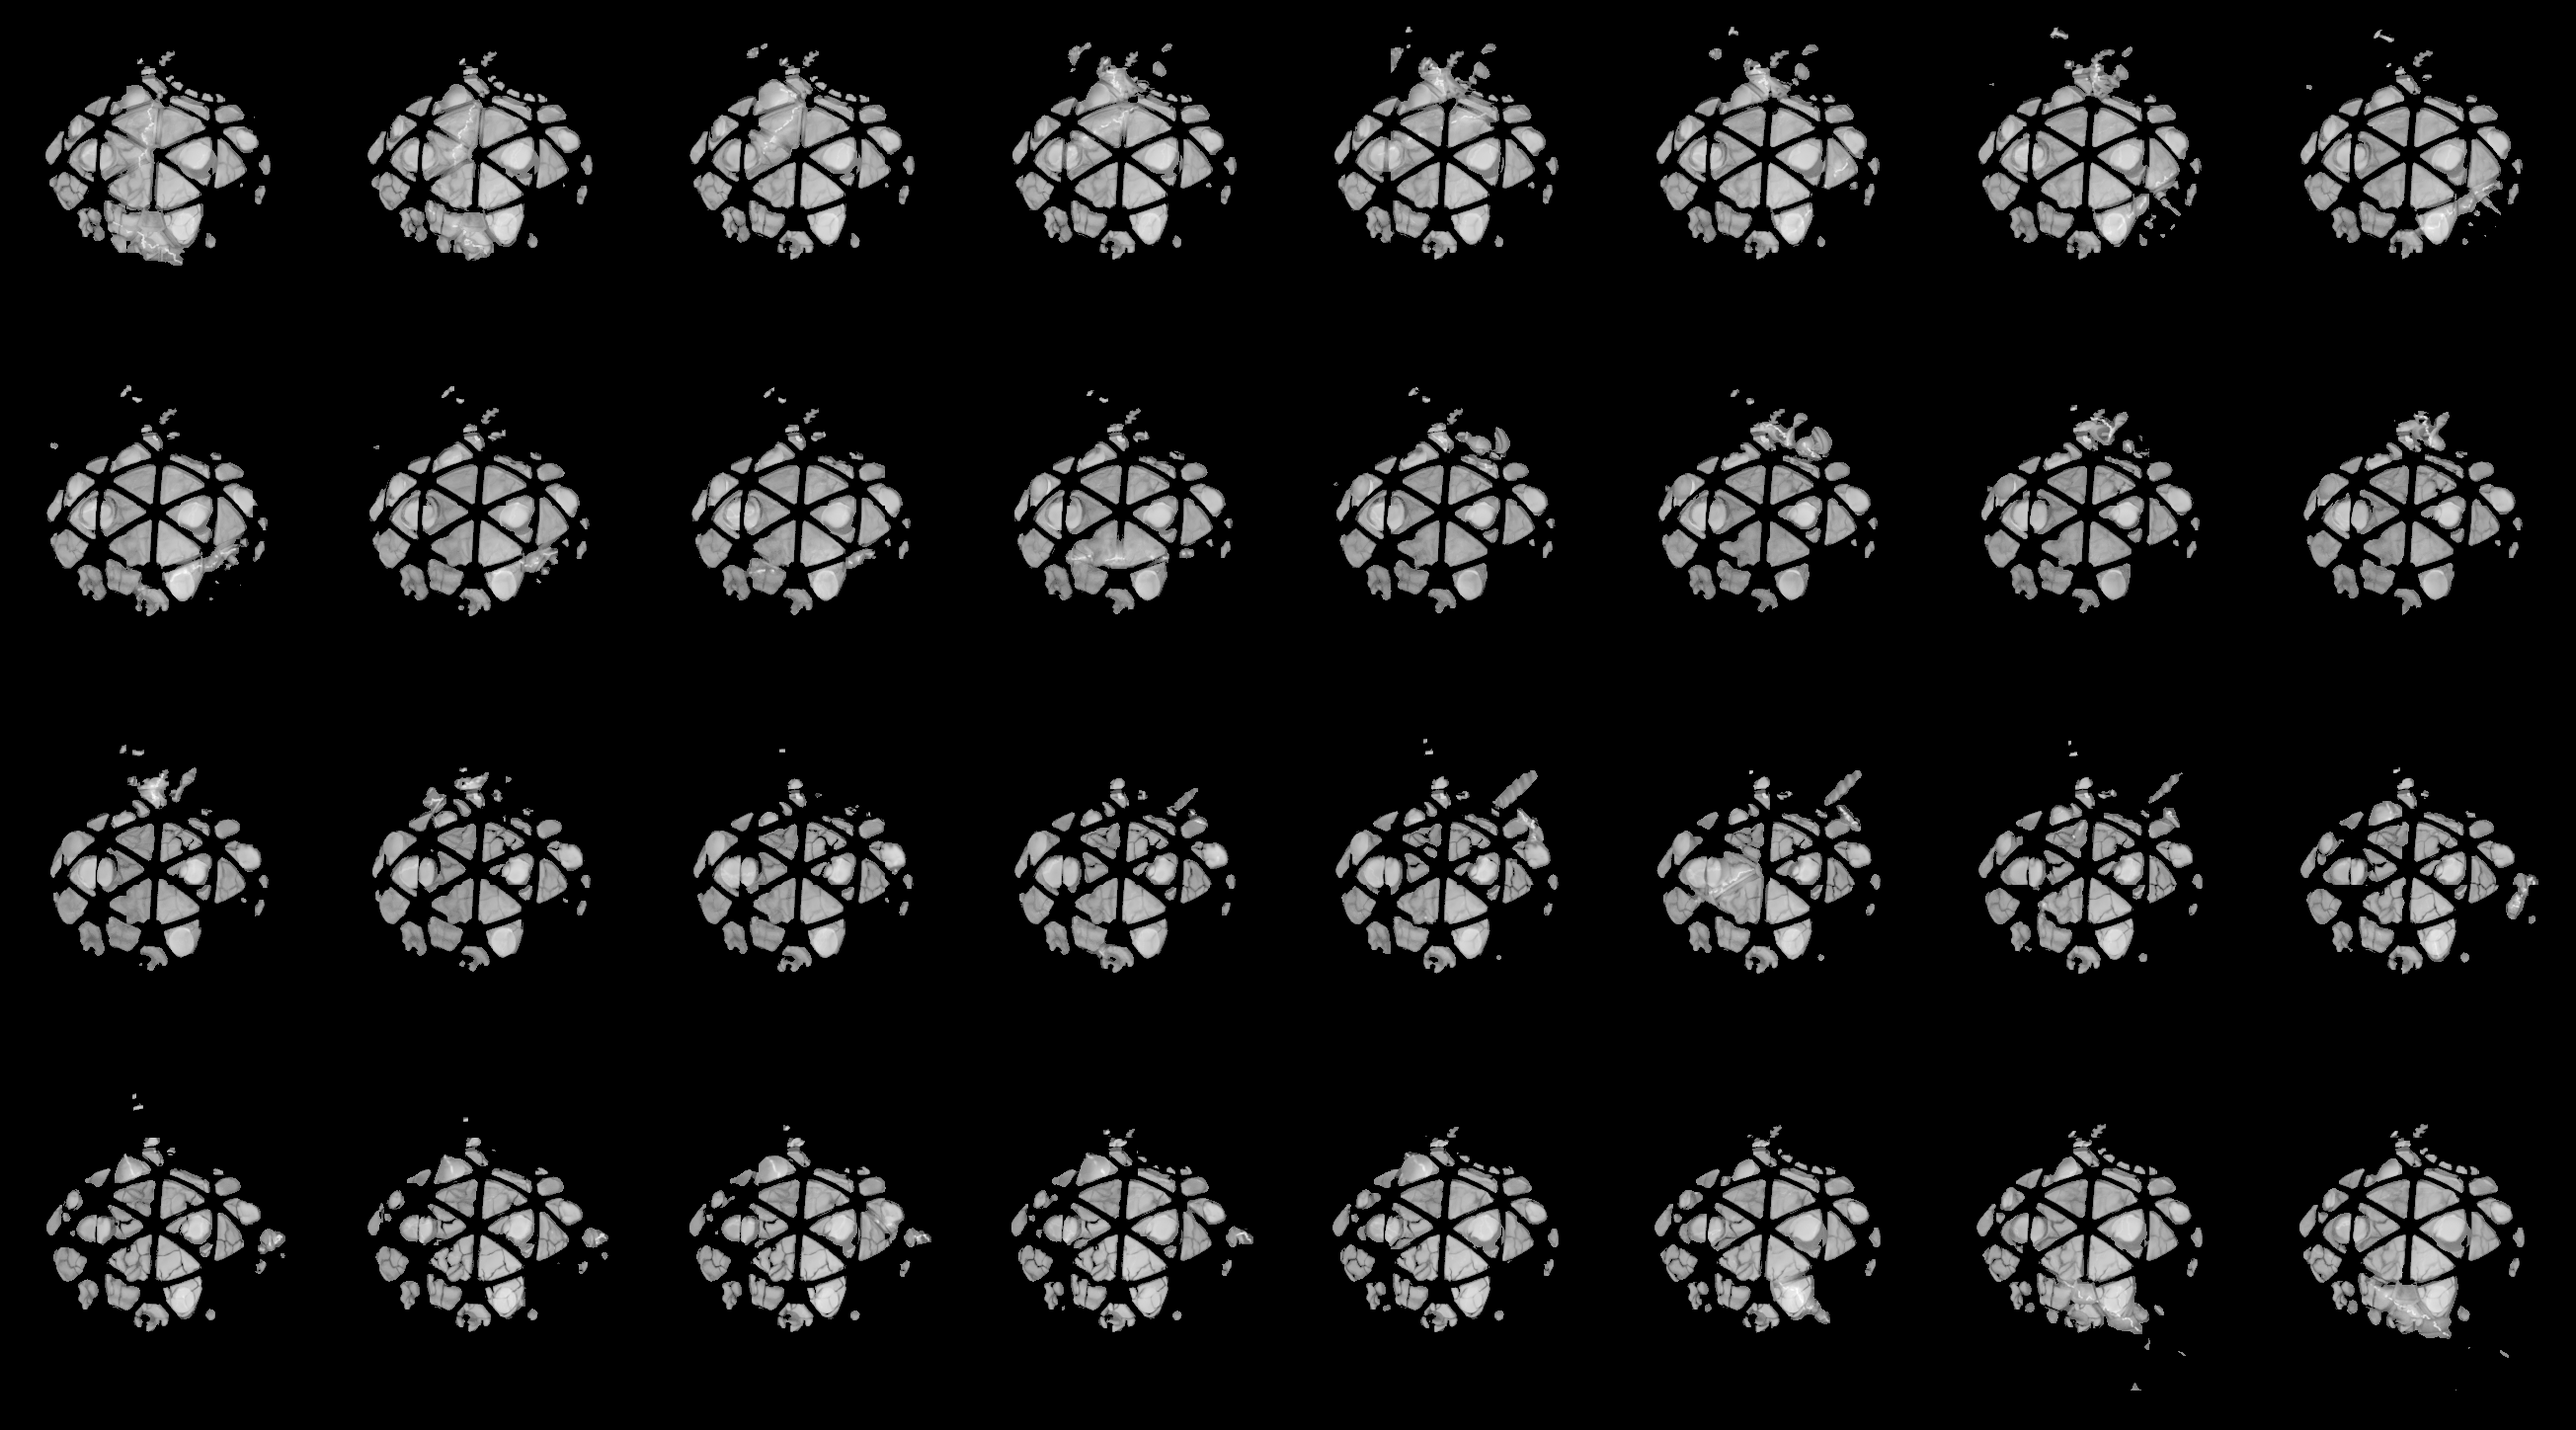
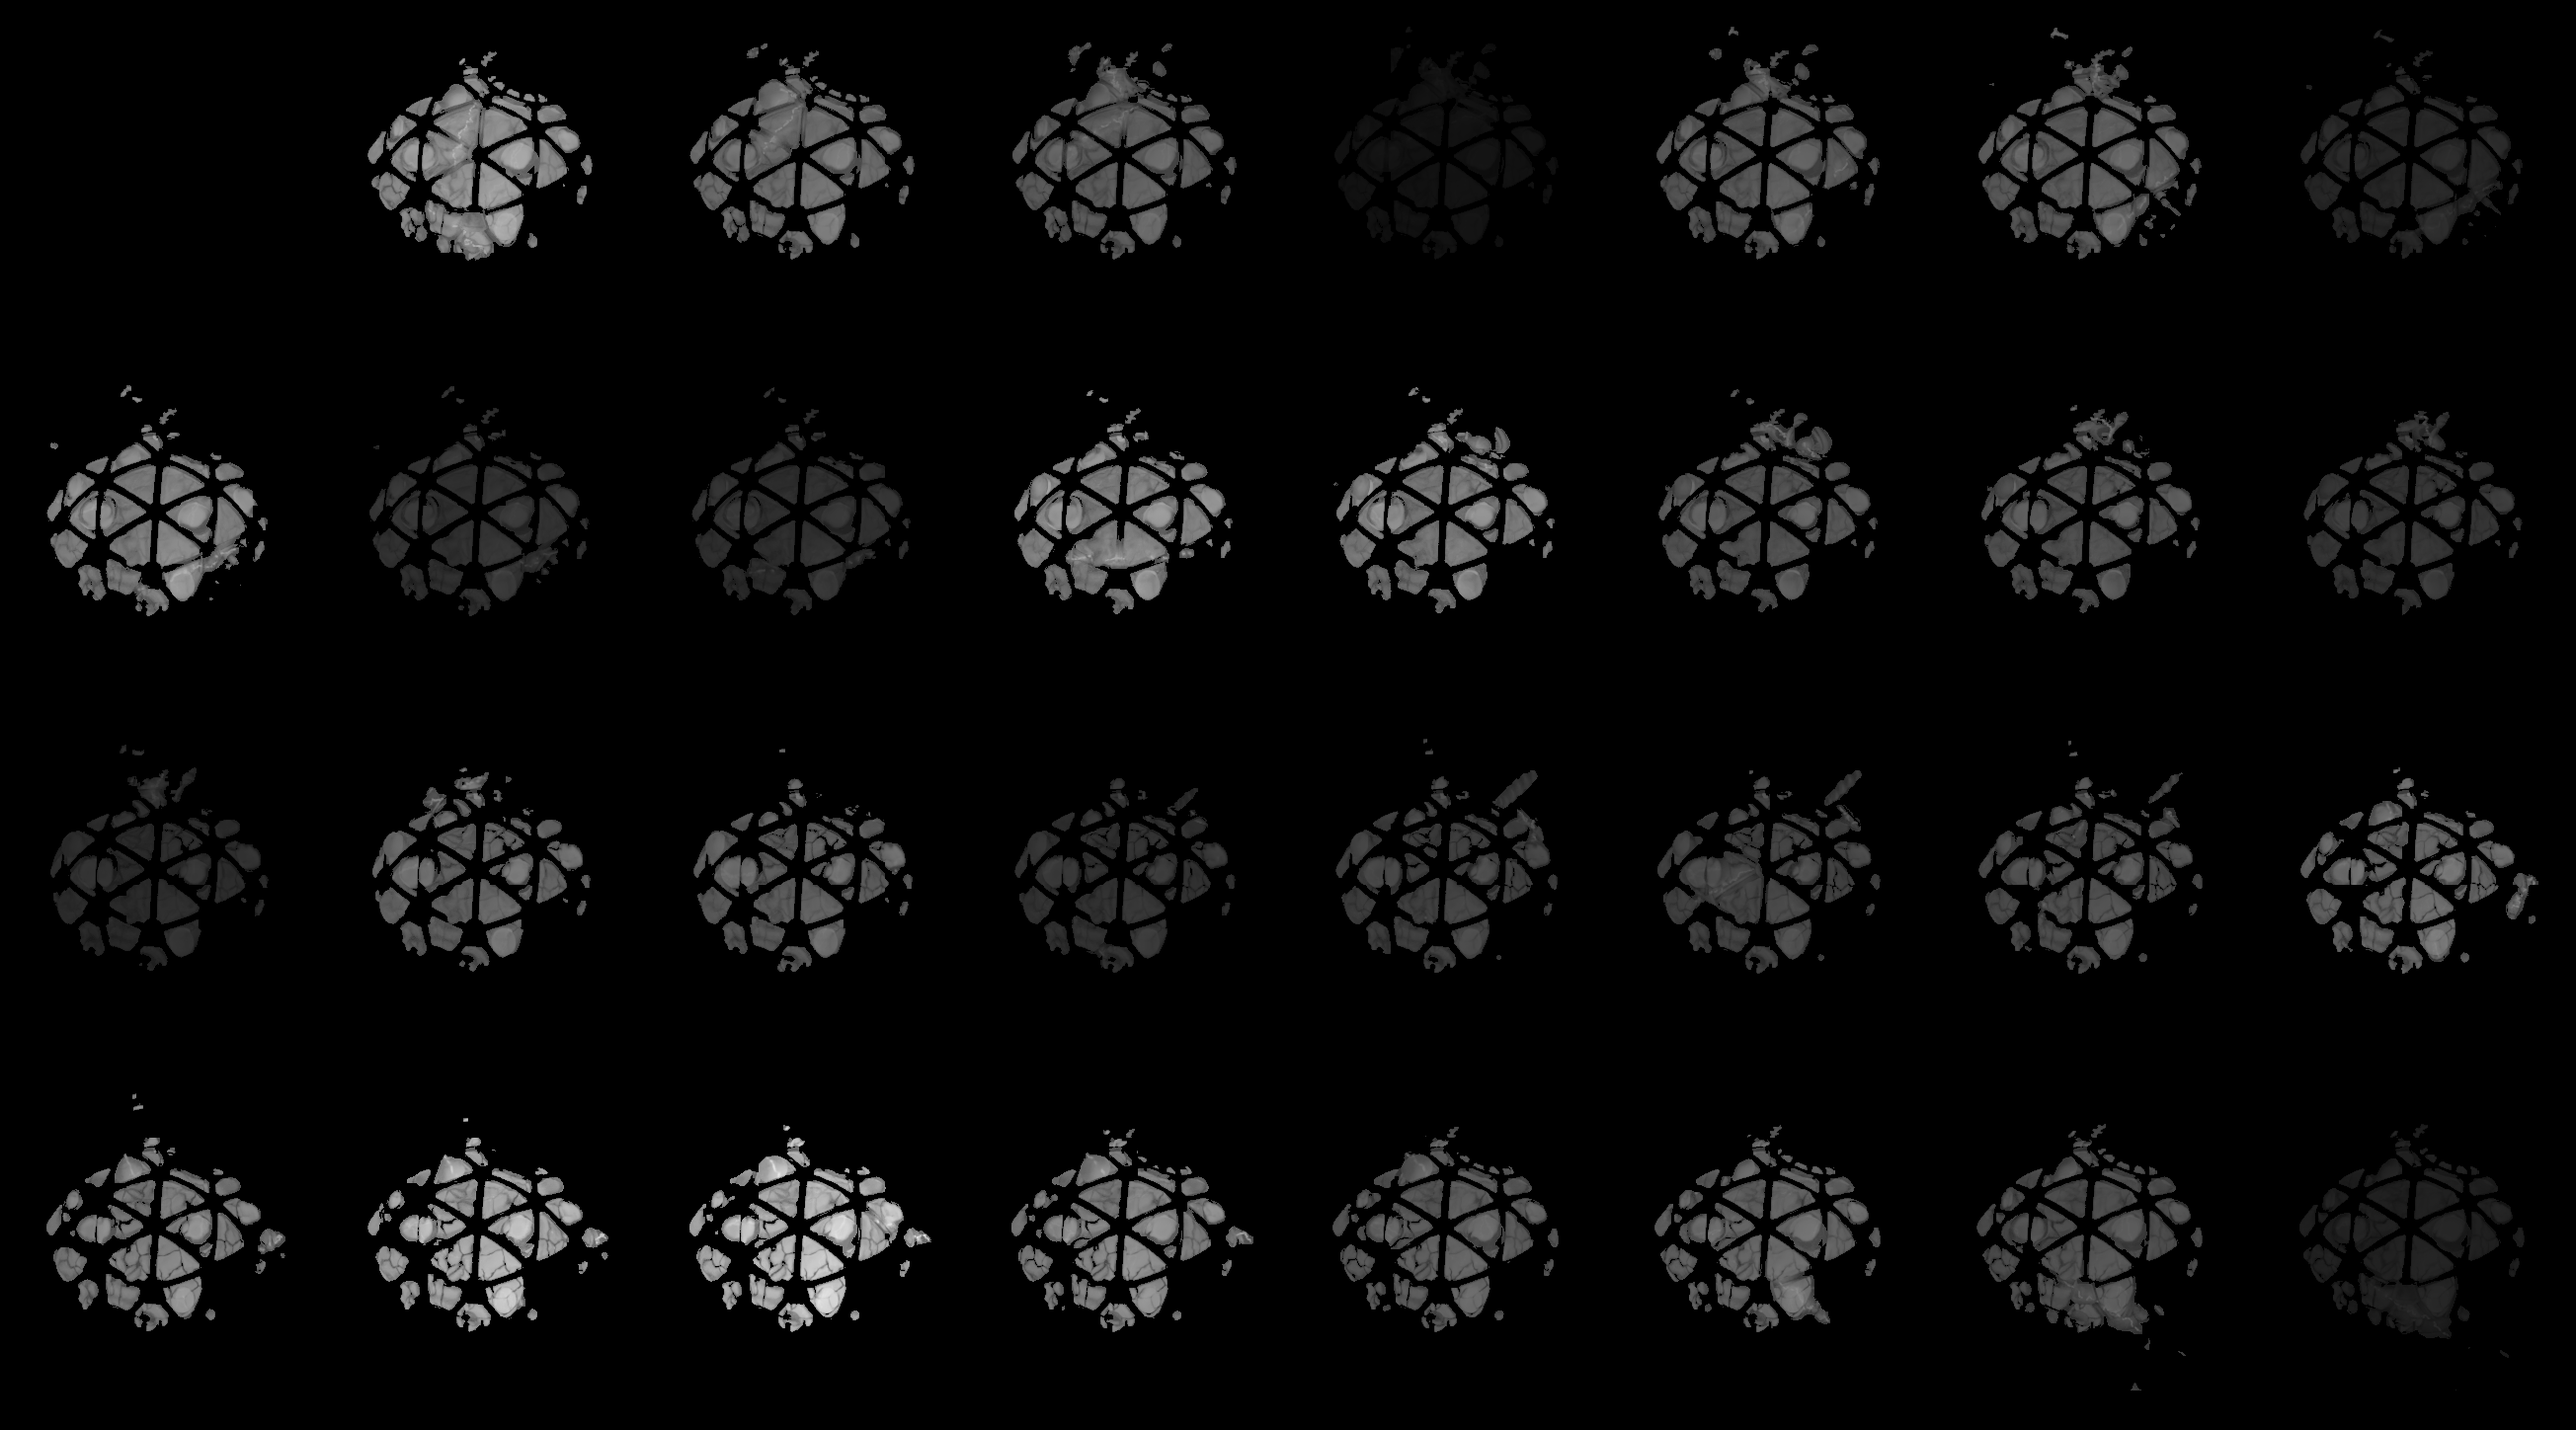
Use python to generate overlay graphics

diff --git a/tasks/update-graphics.py b/tasks/update-graphics.py
@@ -1,0 +1,133 @@
+"""Generate overlay graphics for disco-science-lite mod."""
+
+import math
+from pathlib import Path
+
+import numpy as np
+from PIL import Image
+
+# https://wiki.factorio.com/Application_directory#Application_directory
+_FACTORIO_CANDIDATES = [
+    # Windows
+    Path("C:/Program Files (x86)/Steam/steamapps/common/Factorio"),
+    Path("C:/Program Files/Factorio"),
+    # macOS
+    Path.home() / "Library/Application Support/Steam/steamapps/common/Factorio/factorio.app/Contents",
+    Path("/Applications/factorio.app/Contents"),
+    # Linux
+    Path.home() / ".steam/steam/steamapps/common/Factorio",
+    Path.home() / ".factorio",
+]
+
+def _find_factorio_data() -> Path:
+    for candidate in _FACTORIO_CANDIDATES:
+        data = candidate / "data"
+        if data.is_dir():
+            return data
+    paths = "\n  ".join(str(p / "data") for p in _FACTORIO_CANDIDATES)
+    raise FileNotFoundError(f"Factorio data directory not found. Searched:\n  {paths}")
+
+FACTORIO_DATA = _find_factorio_data()
+
+ROOT_DIR = Path(__file__).parent.parent
+GRAPHICS_DIR = ROOT_DIR / "graphics"
+
+# Lab overlay: 33 frames (216x194 each, 11 columns x 3 rows), animation_speed = 1/3
+LAB_SRC = FACTORIO_DATA / "base/graphics/entity/lab/lab-light.png"
+LAB_FRAME_W, LAB_FRAME_H = 216, 194
+LAB_COLS, LAB_FRAMES = 11, 33
+
+# Biolab overlay: 32 frames (326x362 each, 8 columns x 4 rows), animation_speed = 1/3
+BIOLAB_SRC = FACTORIO_DATA / "space-age/graphics/entity/biolab/biolab-lights.png"
+BIOLAB_FRAME_W, BIOLAB_FRAME_H = 326, 362
+BIOLAB_COLS, BIOLAB_FRAMES = 8, 32
+
+def apply_level(arr: np.ndarray, white_point: float = 0.8, gamma: float = 1.5) -> np.ndarray:
+    """Apply ImageMagick-style -level "0,white_point*100%,gamma" to a uint8 grayscale array.
+
+    Replicates: convert input -level "0,{white_point*100}%,{gamma}" output
+    """
+    f = arr.astype(np.float32) / 255.0
+    f = np.clip(f / white_point, 0.0, 1.0)
+    f = np.power(f, 1.0 / gamma)
+    return (f * 255.0).round().astype(np.uint8)
+
+def extract_frame(arr: np.ndarray, idx: int, frame_w: int, frame_h: int, cols: int) -> np.ndarray:
+    col, row = idx % cols, idx // cols
+    return arr[row * frame_h:(row + 1) * frame_h, col * frame_w:(col + 1) * frame_w]
+
+def assemble_grid(frames: list[np.ndarray], cols: int) -> Image.Image:
+    rows = math.ceil(len(frames) / cols)
+    fh, fw = frames[0].shape
+    sheet = np.zeros((rows * fh, cols * fw), dtype=np.uint8)
+    for i, frame in enumerate(frames):
+        col, row = i % cols, i // cols
+        sheet[row * fh:(row + 1) * fh, col * fw:(col + 1) * fw] = frame
+    return Image.fromarray(sheet, "L")
+
+# --- Lab overlay ---
+# Convert to grayscale and apply level adjustment. The natural brightness variation
+# across frames (bright vs. dark frames) produces the flicker effect in-game.
+
+lab_src = np.array(Image.open(LAB_SRC).convert("L"))
+lab_frames = []
+lab_frame_brightness = []
+
+for i in range(LAB_FRAMES):
+    frame = extract_frame(lab_src, i, LAB_FRAME_W, LAB_FRAME_H, LAB_COLS)
+    lab_frame_brightness.append(float(frame.mean()))
+    lab_frames.append(apply_level(frame, white_point=0.8, gamma=1.5))
+
+assemble_grid(lab_frames, LAB_COLS).save(GRAPHICS_DIR / "lab-overlay.png")
+print("Generated lab-overlay.png")
+
+# --- Biolab overlay ---
+# Resample lab's flicker pattern (33 frames) to 32 frames and apply it as a
+# per-frame brightness multiplier. This gives biolab the same flicker character
+# as lab. Combined with matching animation_speed (1/3), the blink period is
+# 32 / (1/3) = 96 ticks ≈ lab's 33 / (1/3) = 99 ticks.
+
+max_b = max(lab_frame_brightness)
+lab_brightness_norm = [b / max_b for b in lab_frame_brightness]
+
+biolab_src = np.array(Image.open(BIOLAB_SRC).convert("L"))
+biolab_frames = []
+
+for i in range(BIOLAB_FRAMES):
+    # Linear interpolation of lab brightness pattern resampled to BIOLAB_FRAMES
+    t = i / BIOLAB_FRAMES  # 0.0 to (BIOLAB_FRAMES-1)/BIOLAB_FRAMES
+    pos = t * LAB_FRAMES
+    i0 = int(pos) % LAB_FRAMES
+    i1 = (i0 + 1) % LAB_FRAMES
+    frac = pos - int(pos)
+    brightness = lab_brightness_norm[i0] * (1.0 - frac) + lab_brightness_norm[i1] * frac
+
+    frame = extract_frame(biolab_src, i, BIOLAB_FRAME_W, BIOLAB_FRAME_H, BIOLAB_COLS)
+    leveled = apply_level(frame, white_point=0.8, gamma=6.0).astype(np.float32)
+    result = np.clip(leveled * brightness, 0, 255).round().astype(np.uint8)
+    biolab_frames.append(result)
+
+assemble_grid(biolab_frames, BIOLAB_COLS).save(GRAPHICS_DIR / "biolab-overlay.png")
+print("Generated biolab-overlay.png")
+
+# --- General overlay ---
+# 33 frames of radial gradients (white center → black edge) using lab's flicker
+# pattern as multipliers. animation_speed = 1/3 → 33 / (1/3) = 99 ticks/cycle,
+# exactly matching lab-overlay.
+
+GENERAL_SIZE = 128
+GENERAL_RADIUS = GENERAL_SIZE / 2  # gradient reaches 0 at this distance from center
+GENERAL_FALLOFF = 0.8  # exponent applied to gradient: <1 = more white in center with steep edge
+
+cx, cy = GENERAL_SIZE / 2.0, GENERAL_SIZE / 2.0
+ys, xs = np.ogrid[:GENERAL_SIZE, :GENERAL_SIZE]
+dist = np.sqrt((xs - cx)**2 + (ys - cy)**2)
+base_gradient = np.clip(1.0 - dist / GENERAL_RADIUS, 0.0, 1.0) ** GENERAL_FALLOFF
+
+general_frames = []
+for m in lab_brightness_norm:
+    frame = np.clip(base_gradient * m, 0.0, 1.0)
+    general_frames.append((frame * 255.0).round().astype(np.uint8))
+
+assemble_grid(general_frames, LAB_COLS).save(GRAPHICS_DIR / "general-overlay.png")
+print("Generated general-overlay.png")

diff --git a/README.md b/README.md
@@ -86,7 +86,7 @@ To type-check `disco-science-lite.d.ts` (requires `tcs`):
 make typecheck
 ```
 
-To update image files (requires ImageMagick, Factorio, Space-Age DLC):
+To update image files (requires `python` with Anaconda, Factorio, Space-Age DLC):
 
 ```
 make graphics
